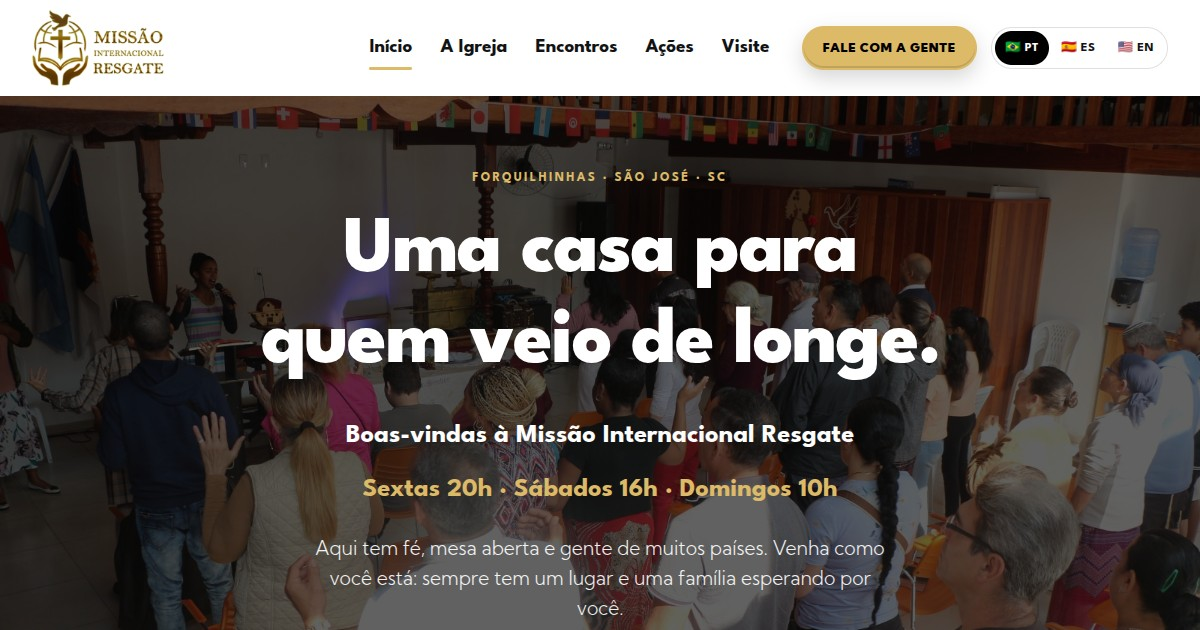
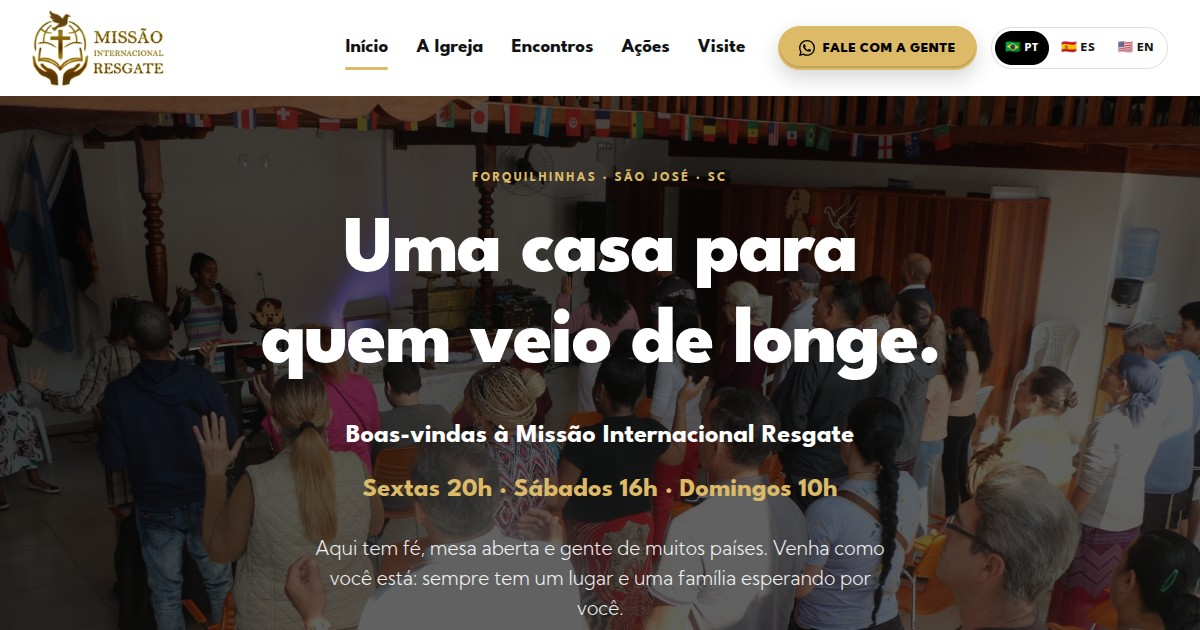
Põe o ícone do WhatsApp nos botões e abre a conversa com uma mensagem pronta no idioma da página.

Changed region(s): [[0.2775, 0.0302, 0.6783, 0.1206]]

diff --git a/src/i18n/content.js b/src/i18n/content.js
@@ -23,6 +23,8 @@ export const content = {
       skip: 'Pular para o conteúdo', menu: 'Abrir menu', closeMenu: 'Fechar menu', language: 'Escolher idioma', mainNav: 'Navegação principal',
       talk: 'Fale com a gente', whatsapp: 'Chamar no WhatsApp', call: 'Ligar agora', planVisit: 'Planeje sua visita', seeTimes: 'Ver horários',
       openMap: 'Abrir no Google Maps', readyTitle: 'Quer conhecer a gente um pouco mais?', mapTitle: 'Mapa com a localização da Missão Internacional Resgate',
+      // Mensagem que já aparece escrita ao abrir a conversa no WhatsApp por qualquer botão do site.
+      whatsappMessage: 'Olá! Vi o site da Missão Internacional Resgate e gostaria de mais informações sobre a igreja.',
     },
     times: [
       { day: 'Sexta-feira', hour: '20h — 21h30' },
@@ -130,6 +132,7 @@ export const content = {
       skip: 'Saltar al contenido', menu: 'Abrir menú', closeMenu: 'Cerrar menú', language: 'Elegir idioma', mainNav: 'Navegación principal',
       talk: 'Escríbenos', whatsapp: 'Escribir por WhatsApp', call: 'Llamar ahora', planVisit: 'Planea tu visita', seeTimes: 'Ver horarios',
       openMap: 'Abrir en Google Maps', readyTitle: '¿Quieres conocernos un poco más?', mapTitle: 'Mapa con la ubicación de Missão Internacional Resgate',
+      whatsappMessage: '¡Hola! Vi el sitio de Missão Internacional Resgate y me gustaría recibir más información sobre la iglesia.',
     },
     times: [
       { day: 'Viernes', hour: '20:00 — 21:30' },
@@ -237,6 +240,7 @@ export const content = {
       skip: 'Skip to content', menu: 'Open menu', closeMenu: 'Close menu', language: 'Choose language', mainNav: 'Main navigation',
       talk: 'Talk to us', whatsapp: 'Message on WhatsApp', call: 'Call now', planVisit: 'Plan your visit', seeTimes: 'See gathering times',
       openMap: 'Open in Google Maps', readyTitle: 'Want to get to know us a little more?', mapTitle: 'Map showing the location of Missão Internacional Resgate',
+      whatsappMessage: 'Hi! I saw the Missão Internacional Resgate website and would like more information about the church.',
     },
     times: [
       { day: 'Friday', hour: '8:00 PM — 9:30 PM' },

diff --git a/src/data/site.js b/src/data/site.js
@@ -51,3 +51,6 @@ export const site = {
   // É um print da home em 1200x630, o tamanho que as redes usam na prévia. Ao mudar o topo da home, tire o print de novo.
   shareImage: { src: '/og-image.jpg', width: 1200, height: 630 },
 };
+
+// Link do WhatsApp com a mensagem padrão já escrita. O texto de cada idioma fica em ui.whatsappMessage, em src/i18n/content.js.
+export const whatsappLink = (message) => `${site.whatsapp}?text=${encodeURIComponent(message)}`;
